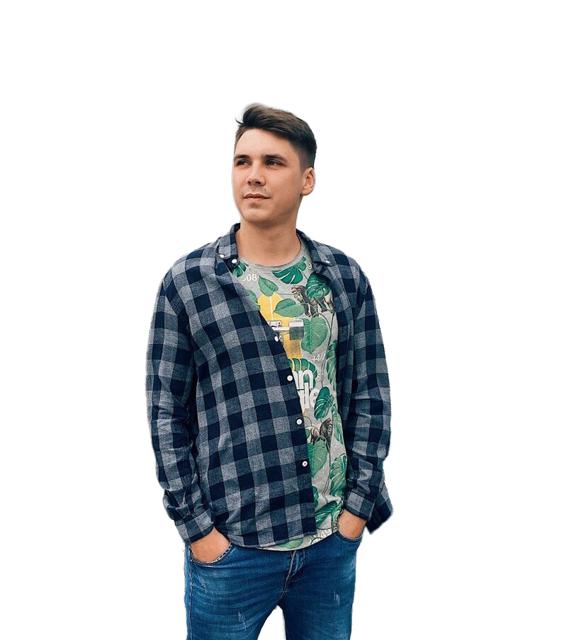
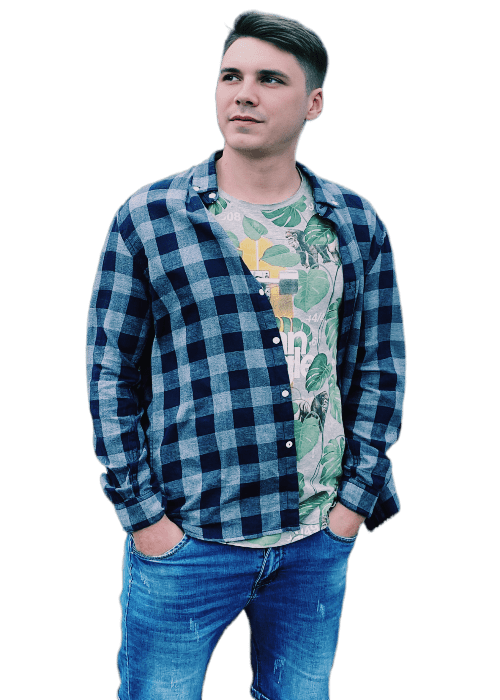
Added new photo

diff --git a/src/screens/home/Home.tsx b/src/screens/home/Home.tsx
@@ -4,6 +4,7 @@ import {Link, useLocation, useNavigate} from 'react-router-dom';
 import {TypeAnimation} from 'react-type-animation';
 
 import pdf from 'assets/EvgenNikolenko-JSdev.pdf';
+import myPhoto from 'assets/images/photo.png';
 
 export const Home = () => {
   const navigate = useNavigate();
@@ -54,8 +55,13 @@ export const Home = () => {
           </div>
         </div>
       </div>
-      <div className="static: w-ful top-0 justify-center xl:relative xl:top-[-64px] xl:w-1/2">
-        <div className="h-[300px] w-[300px] bg-photo bg-cover bg-bottom md:h-[400px] md:w-[400px] xl:h-[580px] xl:w-[500px]"></div>
+      <div className="static: w-ful top-0 flex justify-center xl:relative xl:top-[-64px] xl:w-1/2 xl:pt-10">
+        <img
+          className="h-[300px] w-[230px] md:h-[400px] md:w-[300px] xl:h-[500px] xl:w-[350px]"
+          loading="lazy"
+          src={myPhoto}
+          alt="myPhoto"
+        />
       </div>
     </div>
   );

diff --git a/src/components/Footer/Footer.tsx b/src/components/Footer/Footer.tsx
@@ -19,7 +19,7 @@ export const Footer = () => {
   const sidebarContentEl = document.getElementsByClassName('main-window')[0];
 
   return (
-    <div className="relative flex h-[48px] w-full flex-row justify-between bg-themePrimaryColor xl:h-[24px]">
+    <div className="relative flex h-[48px] w-full flex-row justify-between bg-themePrimaryColor xl:h-[24px] xl:justify-end">
       {mobileAndTablet && (
         <div className="flex flex-row gap-2 pl-2">{socialNetworks(24, true).map((item) => item)}</div>
       )}
@@ -30,7 +30,7 @@ export const Footer = () => {
         className="flex h-full flex-row items-center justify-end px-2 hover:cursor-pointer"
       >
         <MdOutlineDarkMode className="pr-1 text-xl text-tabBarActiveTextColor" />
-        <span className="text-tabBarActiveTextColor">{theme}</span>
+        <span className="font-bold text-tabBarActiveTextColor">{theme}</span>
       </div>
     </div>
   );

diff --git a/src/screens/projects/ProjectCard.tsx b/src/screens/projects/ProjectCard.tsx
@@ -46,7 +46,7 @@ font-semibold text-black opacity-0 transition-opacity group-hover:opacity-100"
           </div>
         </div>
       </div>
-      <div className="relative pb-4">
+      <div className="relative w-full pb-4">
         {project?.url && (
           <a
             className="text-base text-themePrimaryColor underline"
@@ -58,7 +58,9 @@ font-semibold text-black opacity-0 transition-opacity group-hover:opacity-100"
           </a>
         )}
 
-        <p className="mt-4 pb-2 text-base text-primaryColor">{isDialog ? project.description : displayedText}</p>
+        <p className="mt-4 w-full break-words pb-2 text-base text-primaryColor">
+          {isDialog ? project.description : displayedText}
+        </p>
 
         {project.description.length > 3 && !isDialog && (
           <button

diff --git a/index.html b/index.html
@@ -2,13 +2,13 @@
 <html lang="en">
   <head>
     <meta charset="UTF-8" />
-    <link rel="icon" type="image/svg+xml" href="/vite.svg" />
+    <link rel="icon" type="image/svg+xml" href="/logo.svg" />
 
     <meta name="viewport" content="width=device-width, initial-scale=1.0" />
-    <title>Vite + React + TS</title>
+    <title>Portfolio</title>
   </head>
   <body>
     <div id="root"></div>
-    <script type="module" src="/src/main.tsx"></script>
+    <script async type="module" src="/src/main.tsx"></script>
   </body>
 </html>

diff --git a/src/components/Header/Header.tsx b/src/components/Header/Header.tsx
@@ -18,7 +18,7 @@ export const Header = () => {
 
       <div className="flex h-4/6 items-center rounded-lg border-solid blue:border-[#b9bec271] xl:border xl:pl-60 xl:pr-60">
         {!mobileAndTablet && <GrSearch className="mr-2 rotate-90 text-xl text-primaryColor opacity-80" />}
-        <p className="justify-center font-code text-sm text-primaryColor opacity-80"> evgennikolenko_portfolio</p>
+        <p className="justify-center font-code text-sm text-primaryColor opacity-80">portfolio</p>
       </div>
 
       <div>
